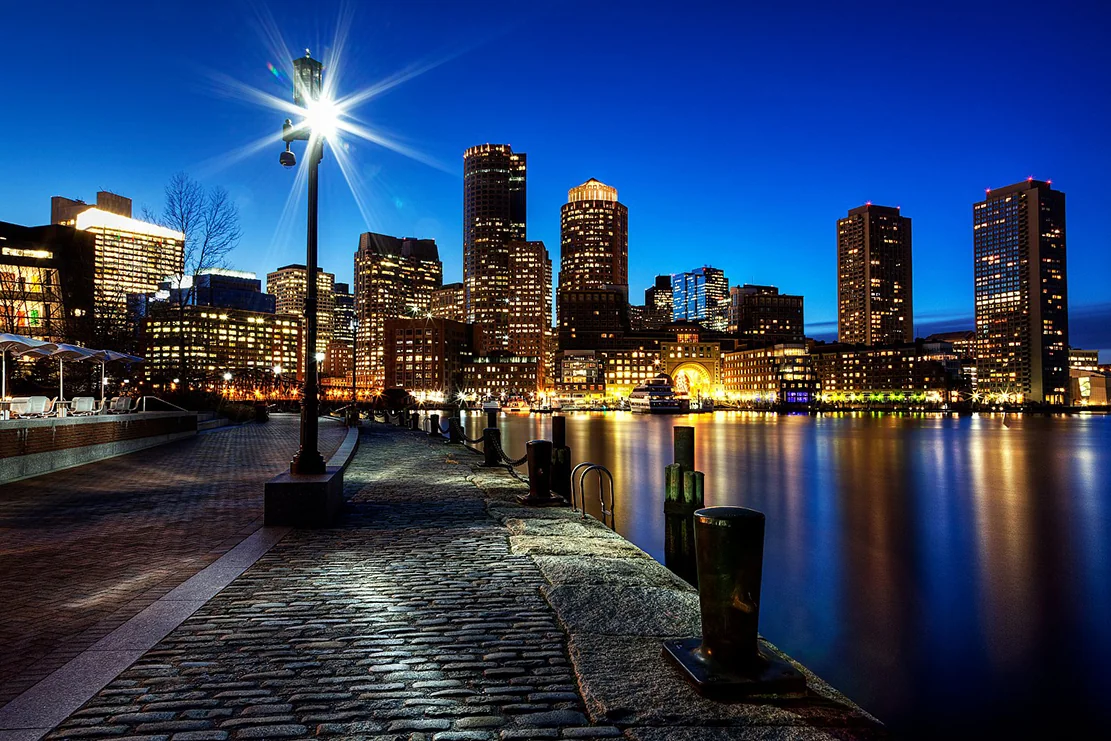
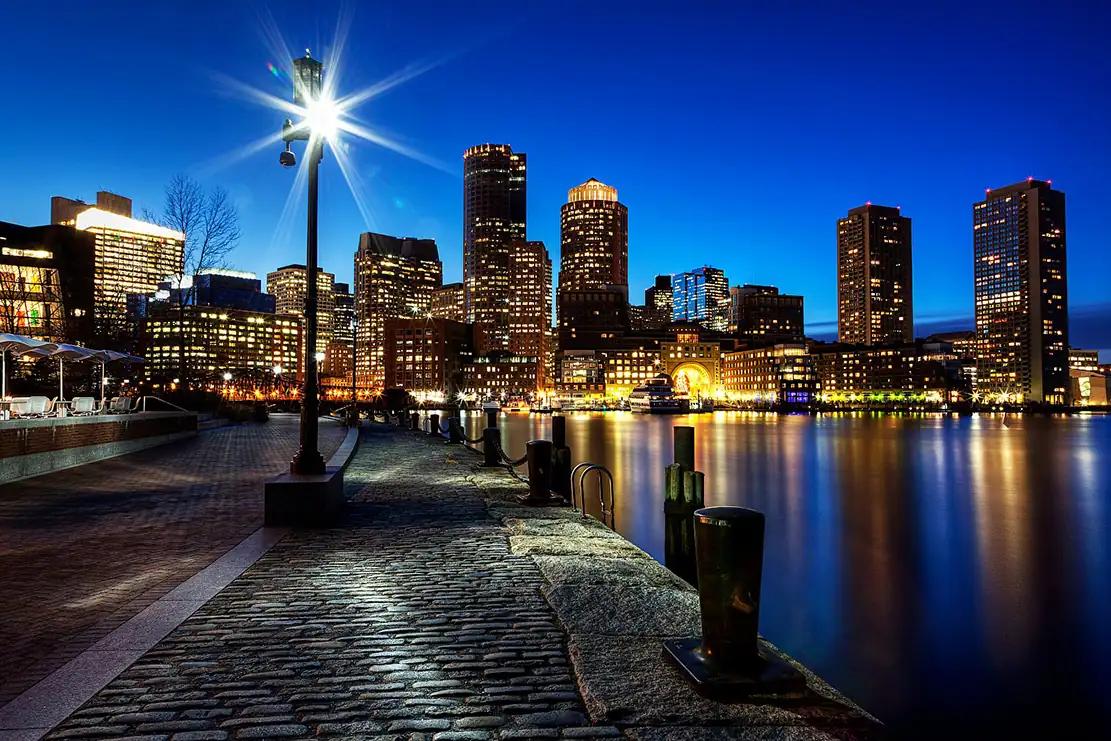
Faz 2.2: LCP optimization - intro screen 1.8s -> 600ms, hero preload, hero webp 196KB -> 115KB, sessionStorage skip on 2nd visit

Changed region(s): [[0.8875, 0.3414, 0.9181, 0.3725], [0.0, 0.4035, 0.0306, 0.4345]]

diff --git a/index.html b/index.html
@@ -198,13 +198,16 @@
     <link rel="stylesheet" href="styles.css">
     <link href="https://fonts.googleapis.com/css2?family=Poppins:wght@300;400;500;600;700&display=swap" rel="stylesheet">
     <link rel="stylesheet" href="https://cdnjs.cloudflare.com/ajax/libs/font-awesome/6.4.0/css/all.min.css">
+
+    <!-- Hero görseli preload (LCP iyileştirme) -->
+    <link rel="preload" as="image" href="shutterstock-94087960-2459.jpg" imagesrcset="shutterstock-94087960-2459.webp" type="image/webp" fetchpriority="high">
 </head>
 <body>
     <!-- Intro Screen -->
     <div class="intro-screen" id="introScreen">
         <div class="intro-content">
             <div class="intro-logo-3d">
-                <img src="gelka-logo-3d.png" alt="GELKA Enerji">
+                <picture><source srcset="gelka-logo-3d.webp" type="image/webp"><img src="gelka-logo-3d.png" alt="GELKA Enerji"></picture>
             </div>
         </div>
     </div>
@@ -227,7 +230,7 @@
     <header class="header">
         <div class="container">
             <div class="logo">
-                <a href="index.html"><img src="gelka-logo-header.png" alt="GELKA Enerji - Sanayi Elektrik Tedarikçisi Logo"></a>
+                <a href="index.html"><picture><source srcset="gelka-logo-header.webp" type="image/webp"><img src="gelka-logo-header.png" alt="GELKA Enerji - Sanayi Elektrik Tedarikçisi Logo"></picture></a>
             </div>
             <nav class="nav">
                 <ul>
@@ -602,7 +605,7 @@
                 
                 <div class="customer-detailed-card" onclick="openSectorModal('akaryakit')">
                     <div class="customer-image">
-                        <img src="akaryakit_istasyonu.png" alt="Akaryakıt İstasyonu Elektrik Tedariki - 7/24 Enerji Çözümleri">
+                        <picture><source srcset="akaryakit_istasyonu.webp" type="image/webp"><img src="akaryakit_istasyonu.png" alt="Akaryakıt İstasyonu Elektrik Tedariki - 7/24 Enerji Çözümleri"></picture>
                     </div>
                     <div class="customer-info">
                         <h3><i class="fas fa-gas-pump"></i> Akaryakıt İstasyonları</h3>
@@ -989,7 +992,7 @@
             <div class="footer-grid">
                 <div class="footer-col footer-brand">
                     <div class="footer-logo">
-                        <img src="biteslem.png" alt="GELKA Enerji Logo - Sanayi ve Ticari Elektrik Tedarikçisi">
+                        <picture><source srcset="biteslem.webp" type="image/webp"><img src="biteslem.png" alt="GELKA Enerji Logo - Sanayi ve Ticari Elektrik Tedarikçisi"></picture>
                     </div>
                     <p class="footer-company">GELKA ENERJİ YATIRIM SANAYİ VE TİCARET A.Ş.</p>
                     <div class="footer-contact-info">

diff --git a/script.js b/script.js
@@ -1,15 +1,23 @@
 // Intro Screen Animation
+// Optimize: 1.8s → 600ms (LCP iyileştirmesi)
+// Returning visitor: hiç gösterme
 const introScreen = document.getElementById('introScreen');
 if (introScreen) {
-    // Hide intro after animation completes - hızlandırıldı
-    setTimeout(() => {
-        introScreen.classList.add('hidden');
-    }, 1800);
-    
-    // Remove from DOM after fade out
-    setTimeout(() => {
+    // Returning visitor check
+    var seenIntro = sessionStorage.getItem('gelka_intro_seen');
+    if (seenIntro) {
+        // Daha önce görmüş, hiç gösterme
         introScreen.style.display = 'none';
-    }, 2500);
+    } else {
+        // İlk ziyaret: kısa intro göster
+        sessionStorage.setItem('gelka_intro_seen', '1');
+        setTimeout(() => {
+            introScreen.classList.add('hidden');
+        }, 600);
+        setTimeout(() => {
+            introScreen.style.display = 'none';
+        }, 1100);
+    }
 }
 
 // Smooth scrolling for navigation links

diff --git a/styles.css b/styles.css
@@ -484,12 +484,13 @@ body {
     justify-content: center;
     align-items: center;
     z-index: 9999;
-    transition: opacity 0.8s ease, visibility 0.8s ease;
+    transition: opacity 0.4s ease, visibility 0.4s ease;
 }
 
 .intro-screen.hidden {
     opacity: 0;
     visibility: hidden;
+    pointer-events: none;
 }
 
 .intro-content {
@@ -501,7 +502,7 @@ body {
 
 .intro-logo-3d {
     opacity: 0;
-    animation: introLogoIn 1s ease-out 0.2s forwards;
+    animation: introLogoIn 0.5s ease-out forwards;
 }
 
 .intro-logo-3d img {
